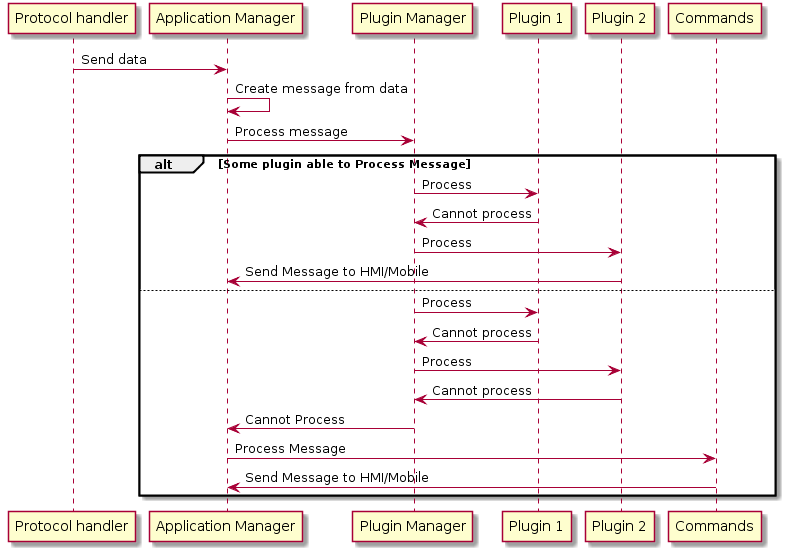
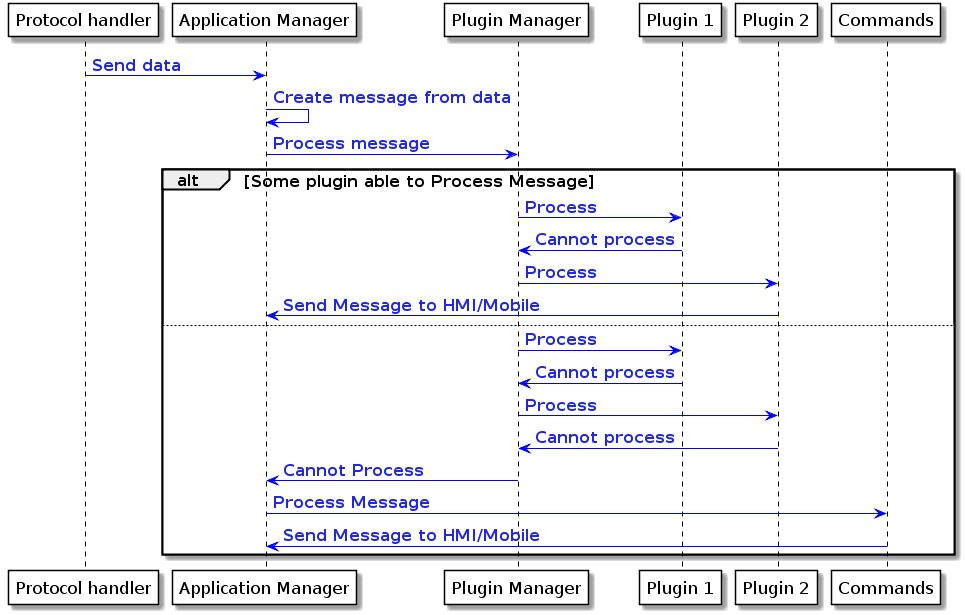
Add Plugin Manager interaction view
Related issue : [APPLINK-31310: Update OpenSDL SAD within RevSDL](https://adc.luxoft.com/jira/browse/APPLINK-31310)

fixup! Add plugin manager ineraction view diagramm

fixup! Add Plugin Manager interaction view

Changed region(s): [[0.0, 0.0, 1.0, 1.0], [0.4275, 0.0, 1.0, 0.0924]]

diff --git a/docs/Software Architecture Document/Component Interaction View/index.md b/docs/Software Architecture Document/Component Interaction View/index.md
@@ -44,3 +44,8 @@ Protocol layer is responsible for transferring Transport and Protocol events to 
 ### Business layer - App Launch
 ![Business layer - App Launch](./assets/app_launch.png)
 |||
+
+|||
+### Business layer - Plugin Manager 
+![Business layer - Plugin Manager](./assets/plugin_manager_interaction_view.png)
+|||
